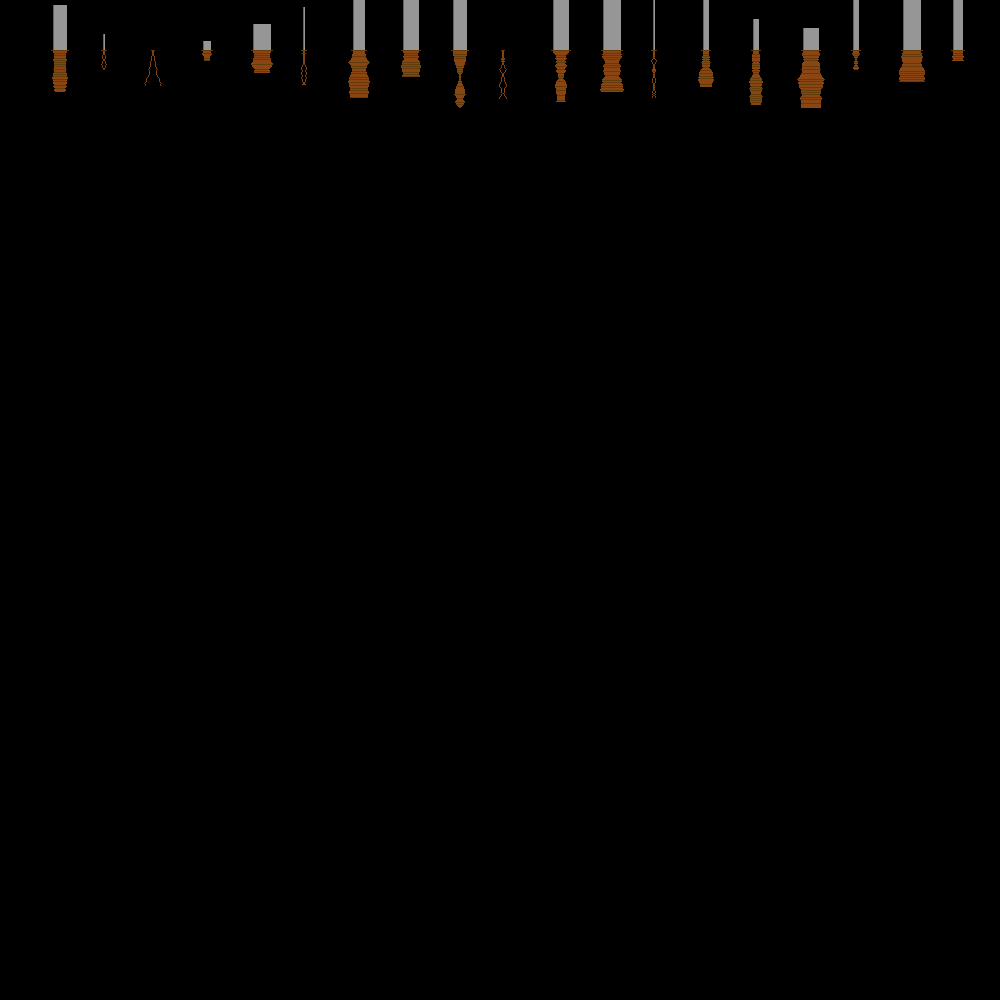
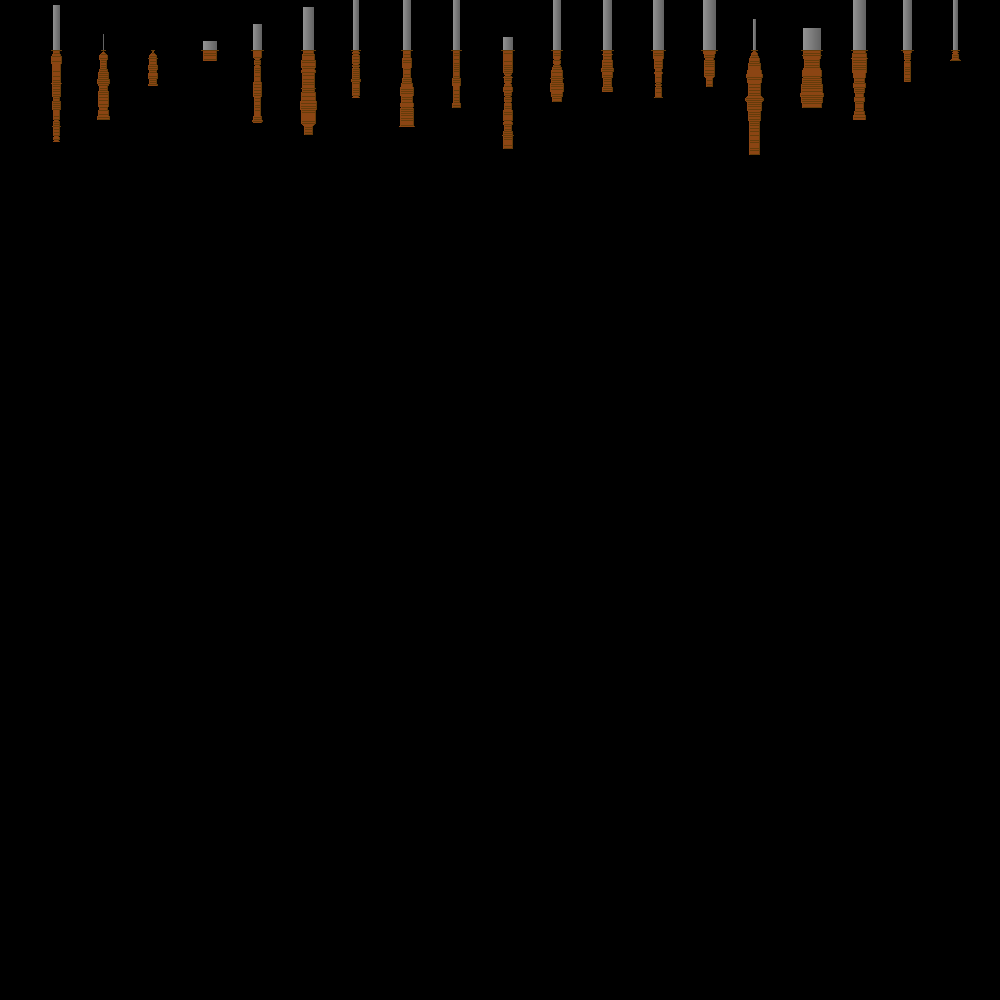
Added comments, Smoothed colors, minimum width, outline

diff --git a/candles/candles.go b/candles/candles.go
@@ -18,27 +18,31 @@ var (
     colorWhite = color.RGBA{255,255,255,255}
     colorBrown = color.RGBA{139,69,19,255}
     colorDarkGrey = color.RGBA{100,100,100,255}
+    colorLightGrey = color.RGBA{200,200,200,255}
     colorDarkBrown = color.RGBA{100,60,10,255}
     colorBlack = color.RGBA{0,0,0,255}
-
+    baseSmoothness = 1.0;
 )
 
 func main() {
 	fmt.Println("starting")
     img := image.NewRGBA(image.Rect(0, 0, 1000, 1000))
+
+    // Fill the canvas with black
     for i := 0; i < 1000; i++ {
     	for q := 0; q < 1000; q++ {
 			img.Set(i,q,colorBlack)        		
     	}
     }
+
     for o := 50; o < 1000; o+=50 {
-	   
-	    baseHeight := rand.Intn(50)+10
-	   	candleWidth := rand.Intn(10)*2
+
+	    baseHeight := rand.Intn(100)+10
+	   	candleWidth := rand.Intn(20)
 	    candleHeight := rand.Intn(100)
+	    // These are for later
 	    //wickHeight := rand.Intn(10)
 	    //flameHeight := rand.Intn(10)
-
 	    //candleBoundsX = candleWidth
 	    //candleBoundsY = candleHeight + baseHeight + wickHeight + flameHeight
 	    
@@ -47,12 +51,13 @@ func main() {
 	    // Create the waxy part of the candle
 	    for z := 0; z < candleHeight; z++ {
 	    	for i := candleWidth; i > 0; i-- {
-	    		if i<2{
-				img.Set(o+i+2,51-z,colorDarkGrey)    	
-	    		}else{
-				img.Set(o+i+2,51-z,colorGrey)    	
 
-	    		}
+	    		// Creates a smooth gradient from 100 - 150
+	    		// Im not sure if I like how non-pixel art this looks
+				img.Set(o+i+2,51-z,color.RGBA{uint8(150.0-50.0*(float32(i)/float32(candleWidth))),
+											  uint8(150.0-50.0*(float32(i)/float32(candleWidth))),
+											  uint8(150.0-50.0*(float32(i)/float32(candleWidth))),255})    
+
 	    	}
 	    }
 
@@ -63,36 +68,41 @@ func main() {
 	   
 
 	    // Randomly shape the candle holder thing
+
+	    // Set the location of left and right edge
 	    currentSides := [2]int{3+o,o+2+candleWidth}
 	    lastDirection := 0.0;
 	    lastColor := colorBrown;
-	  	simp := opensimplex.NewWithSeed(int64(o+1241512));
+	  	simp := opensimplex.NewWithSeed(int64(o+1212));
 
+	  	// Use the simplex noise to random walk the edges for the entire height of the base.
+	  	// I'm using 0.3 and -0.3 as the threshold for left and right. Might smooth it out more.
 	    for i := 0; i < baseHeight; i++ {
-	   
-	   		direction := simp.Eval2(float64(i),0.0)
+	   		direction := simp.Eval2(baseSmoothness * float64(i),0.0)
+
+	   		// If theres a sharp edge, add a darker line thats supposed to look like a shadow
 	    	if (((lastDirection < 0 && direction > 0 ) ||  (lastDirection > 0 && direction < 0))&& lastColor!=colorDarkBrown) {
-	    		img.Set(currentSides[0],51+i,colorDarkBrown)    	
-	    		img.Set(currentSides[1],51+i,colorDarkBrown)
-	    		for z := currentSides[0]; z < currentSides[1]; z++ {
-	    			img.Set(z,51+i,colorDarkBrown)    	
-	    		}
 	    		lastColor = colorDarkBrown
 	    	}else{
-	    		img.Set(currentSides[0],51+i,colorBrown)    	
-	    		img.Set(currentSides[1],51+i,colorBrown)
-	    		for z := currentSides[0]; z < currentSides[1]; z++ {
-	    			img.Set(z,51+i,colorBrown)    	
-	    		}
 	    		lastColor = colorBrown
 	    	}
 
+	    	// Set the outline
+    		img.Set(currentSides[0],51+i,colorBrown)    	
+    		img.Set(currentSides[1],51+i,colorDarkBrown)
+
+    		// Set the fill
+    		for z := currentSides[0]+1; z < currentSides[1]; z++ {
+    			img.Set(z,51+i,lastColor)    	
+    		}
 	    	lastDirection = direction
 
-
-	   		if direction > 0.3 {
+	    	// Move in the random direction if the candle isn't at mininmum width
+	    	if currentSides[1] - currentSides[0] <= 5  {
+	    		currentSides[0],currentSides[1] = currentSides[0]-1,currentSides[1]+1
+	    	}else if direction > 0.5 {
 	   			currentSides[0],currentSides[1] = currentSides[0]-1,currentSides[1]+1
-	   		}else if direction < -0.3{
+	   		}else if direction < -0.5{
 	   			currentSides[0],currentSides[1] = currentSides[0]+1,currentSides[1]-1
 	   		}
 
